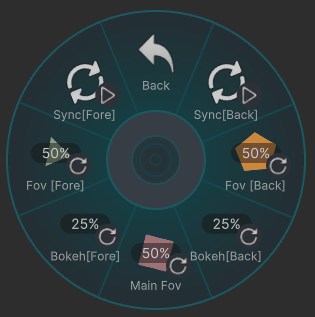
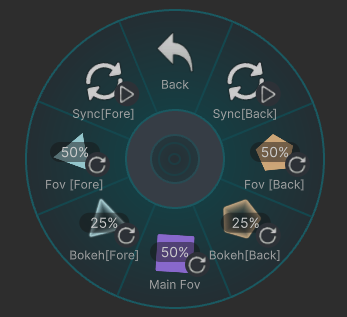
Update docs2

diff --git a/docs/howtouse.md b/docs/howtouse.md
@@ -37,5 +37,5 @@ VRCハンドカメラを出し、
 ## 仕様
 * ワールドによっては、うまく撮れないところもあります。
 * 視界ハックエフェクトがあるワールドでは、ちゃんと撮れないです。
-* 試用されているシェーダーによってはきちんと撮れないです。
+* 使用されているシェーダーによってはきちんと撮れないです。
 * ドローン機能はメインカメラにしか使えません。

diff --git a/docs/history.md b/docs/history.md
@@ -1,4 +1,5 @@
 # History
 
 ### 26/04/30
-    販売開始
+    販売開始してません……
+    サンプルアバターは出してます。
